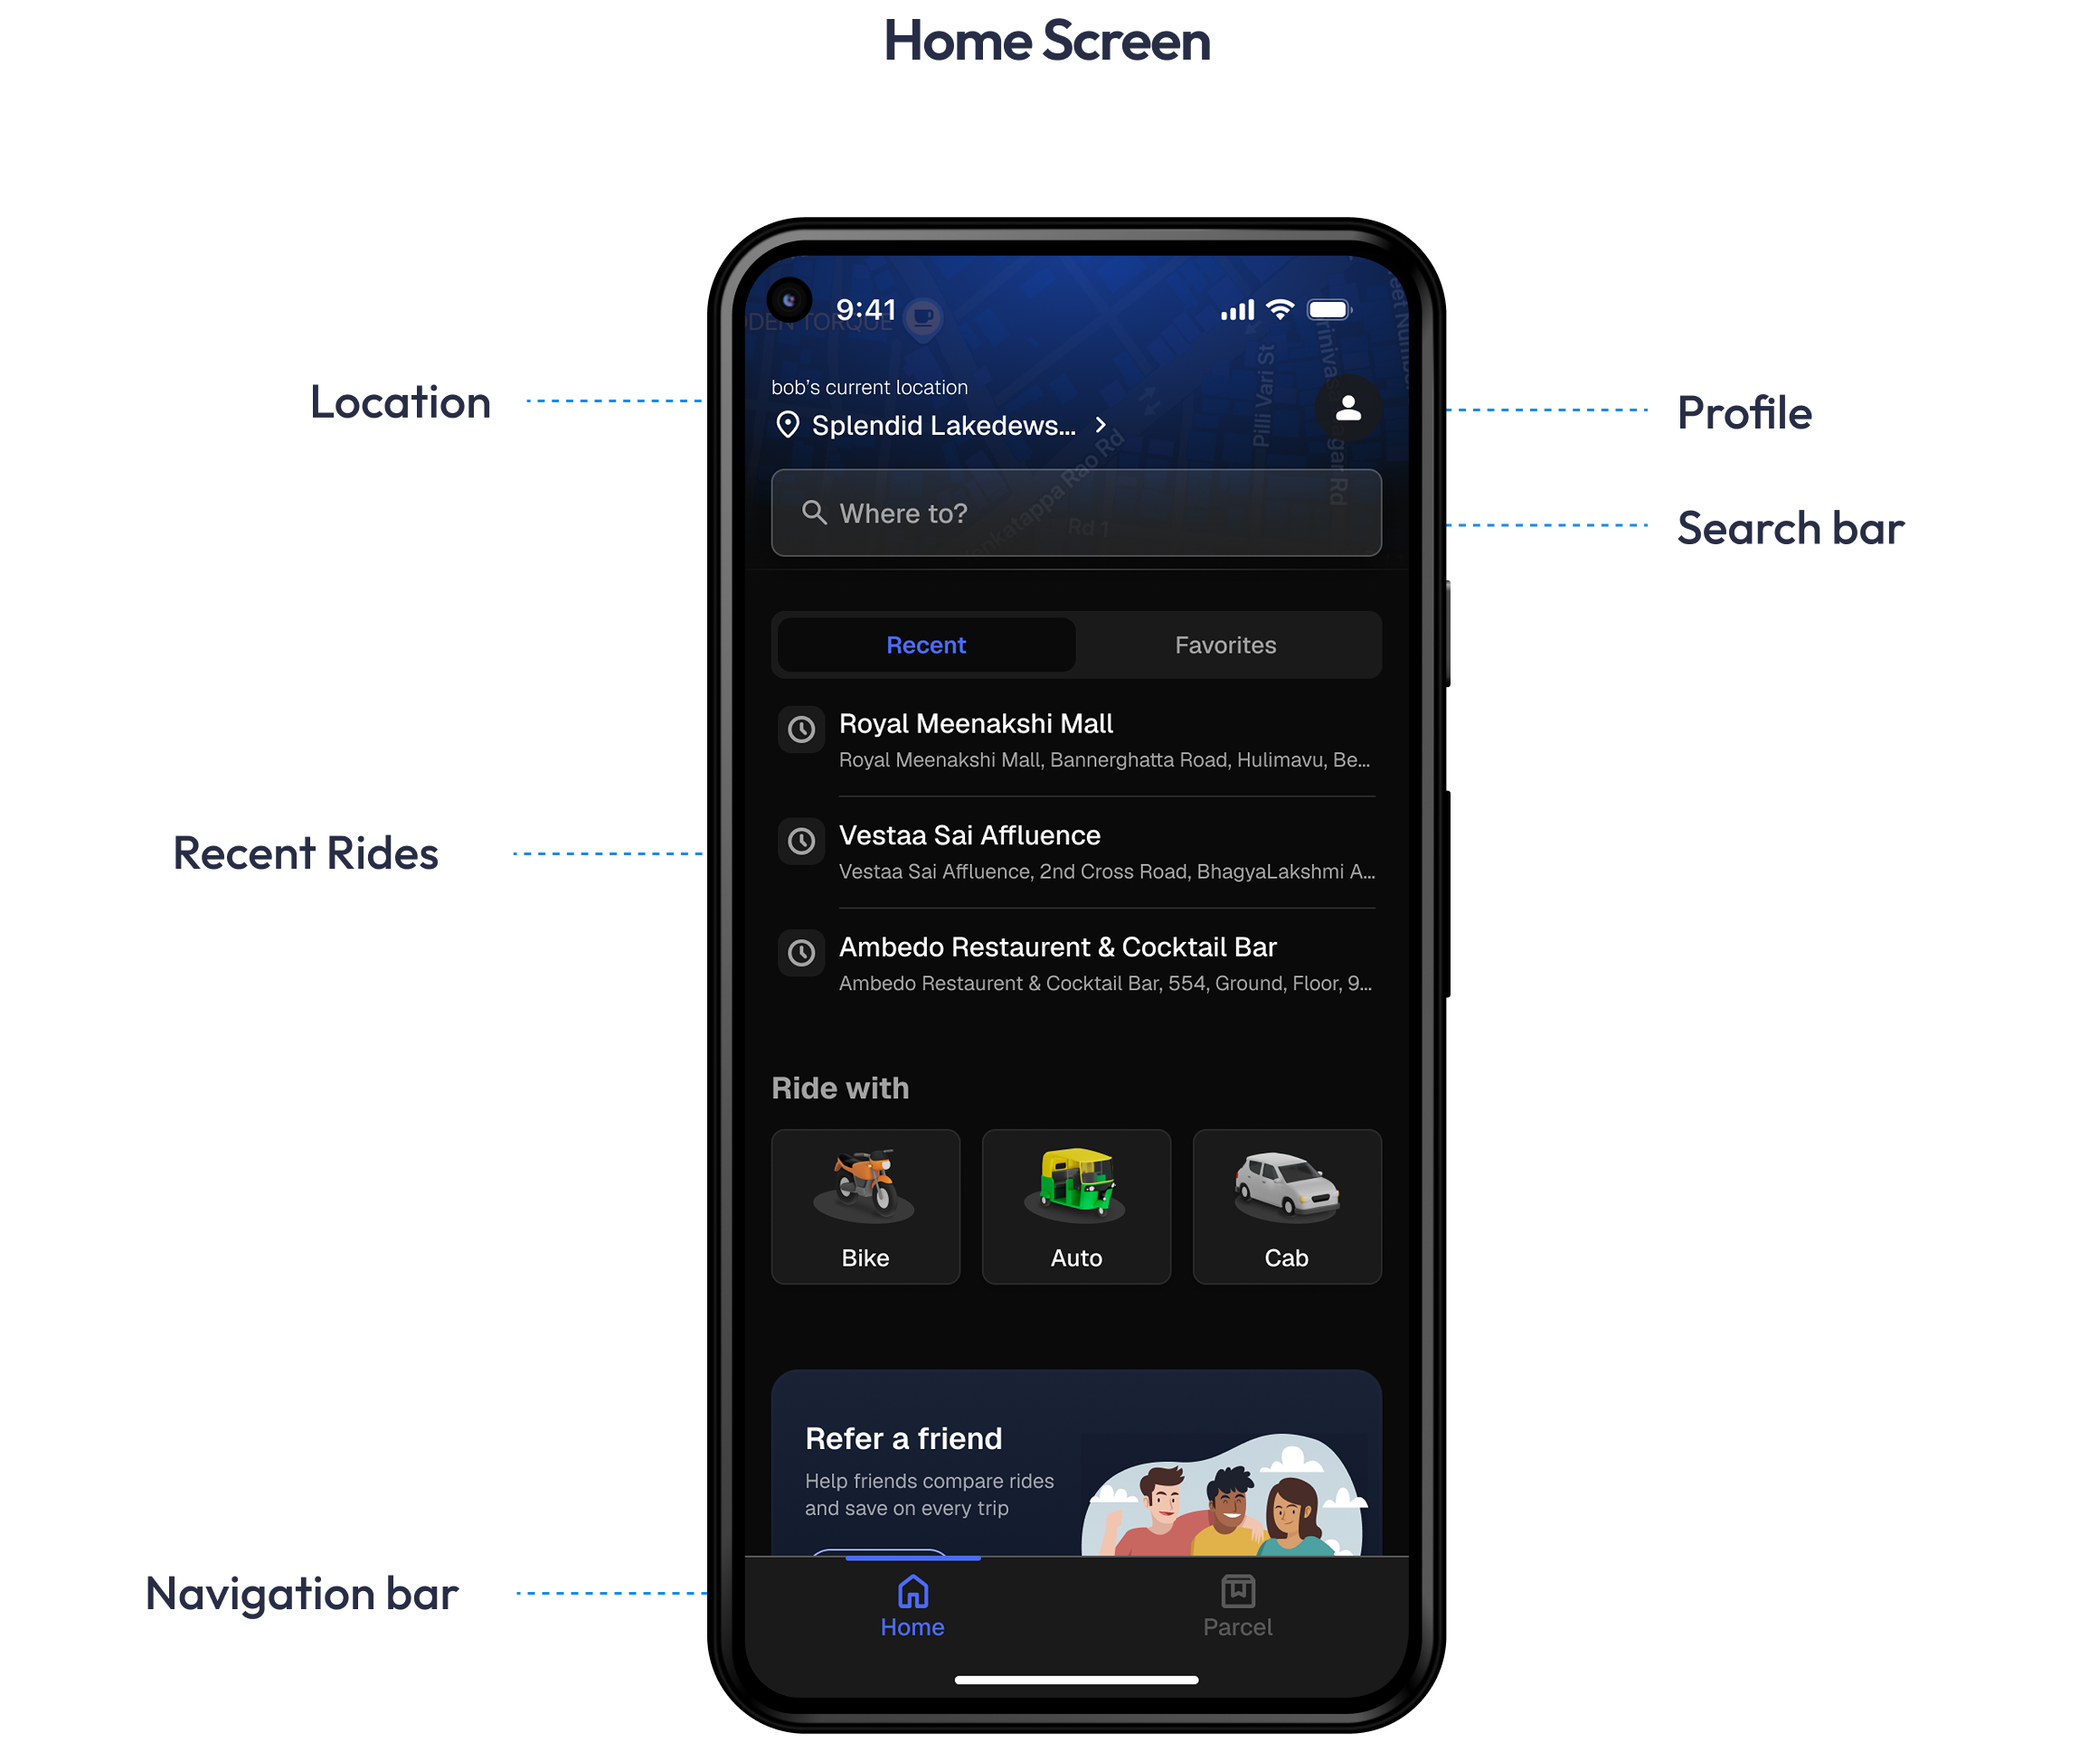
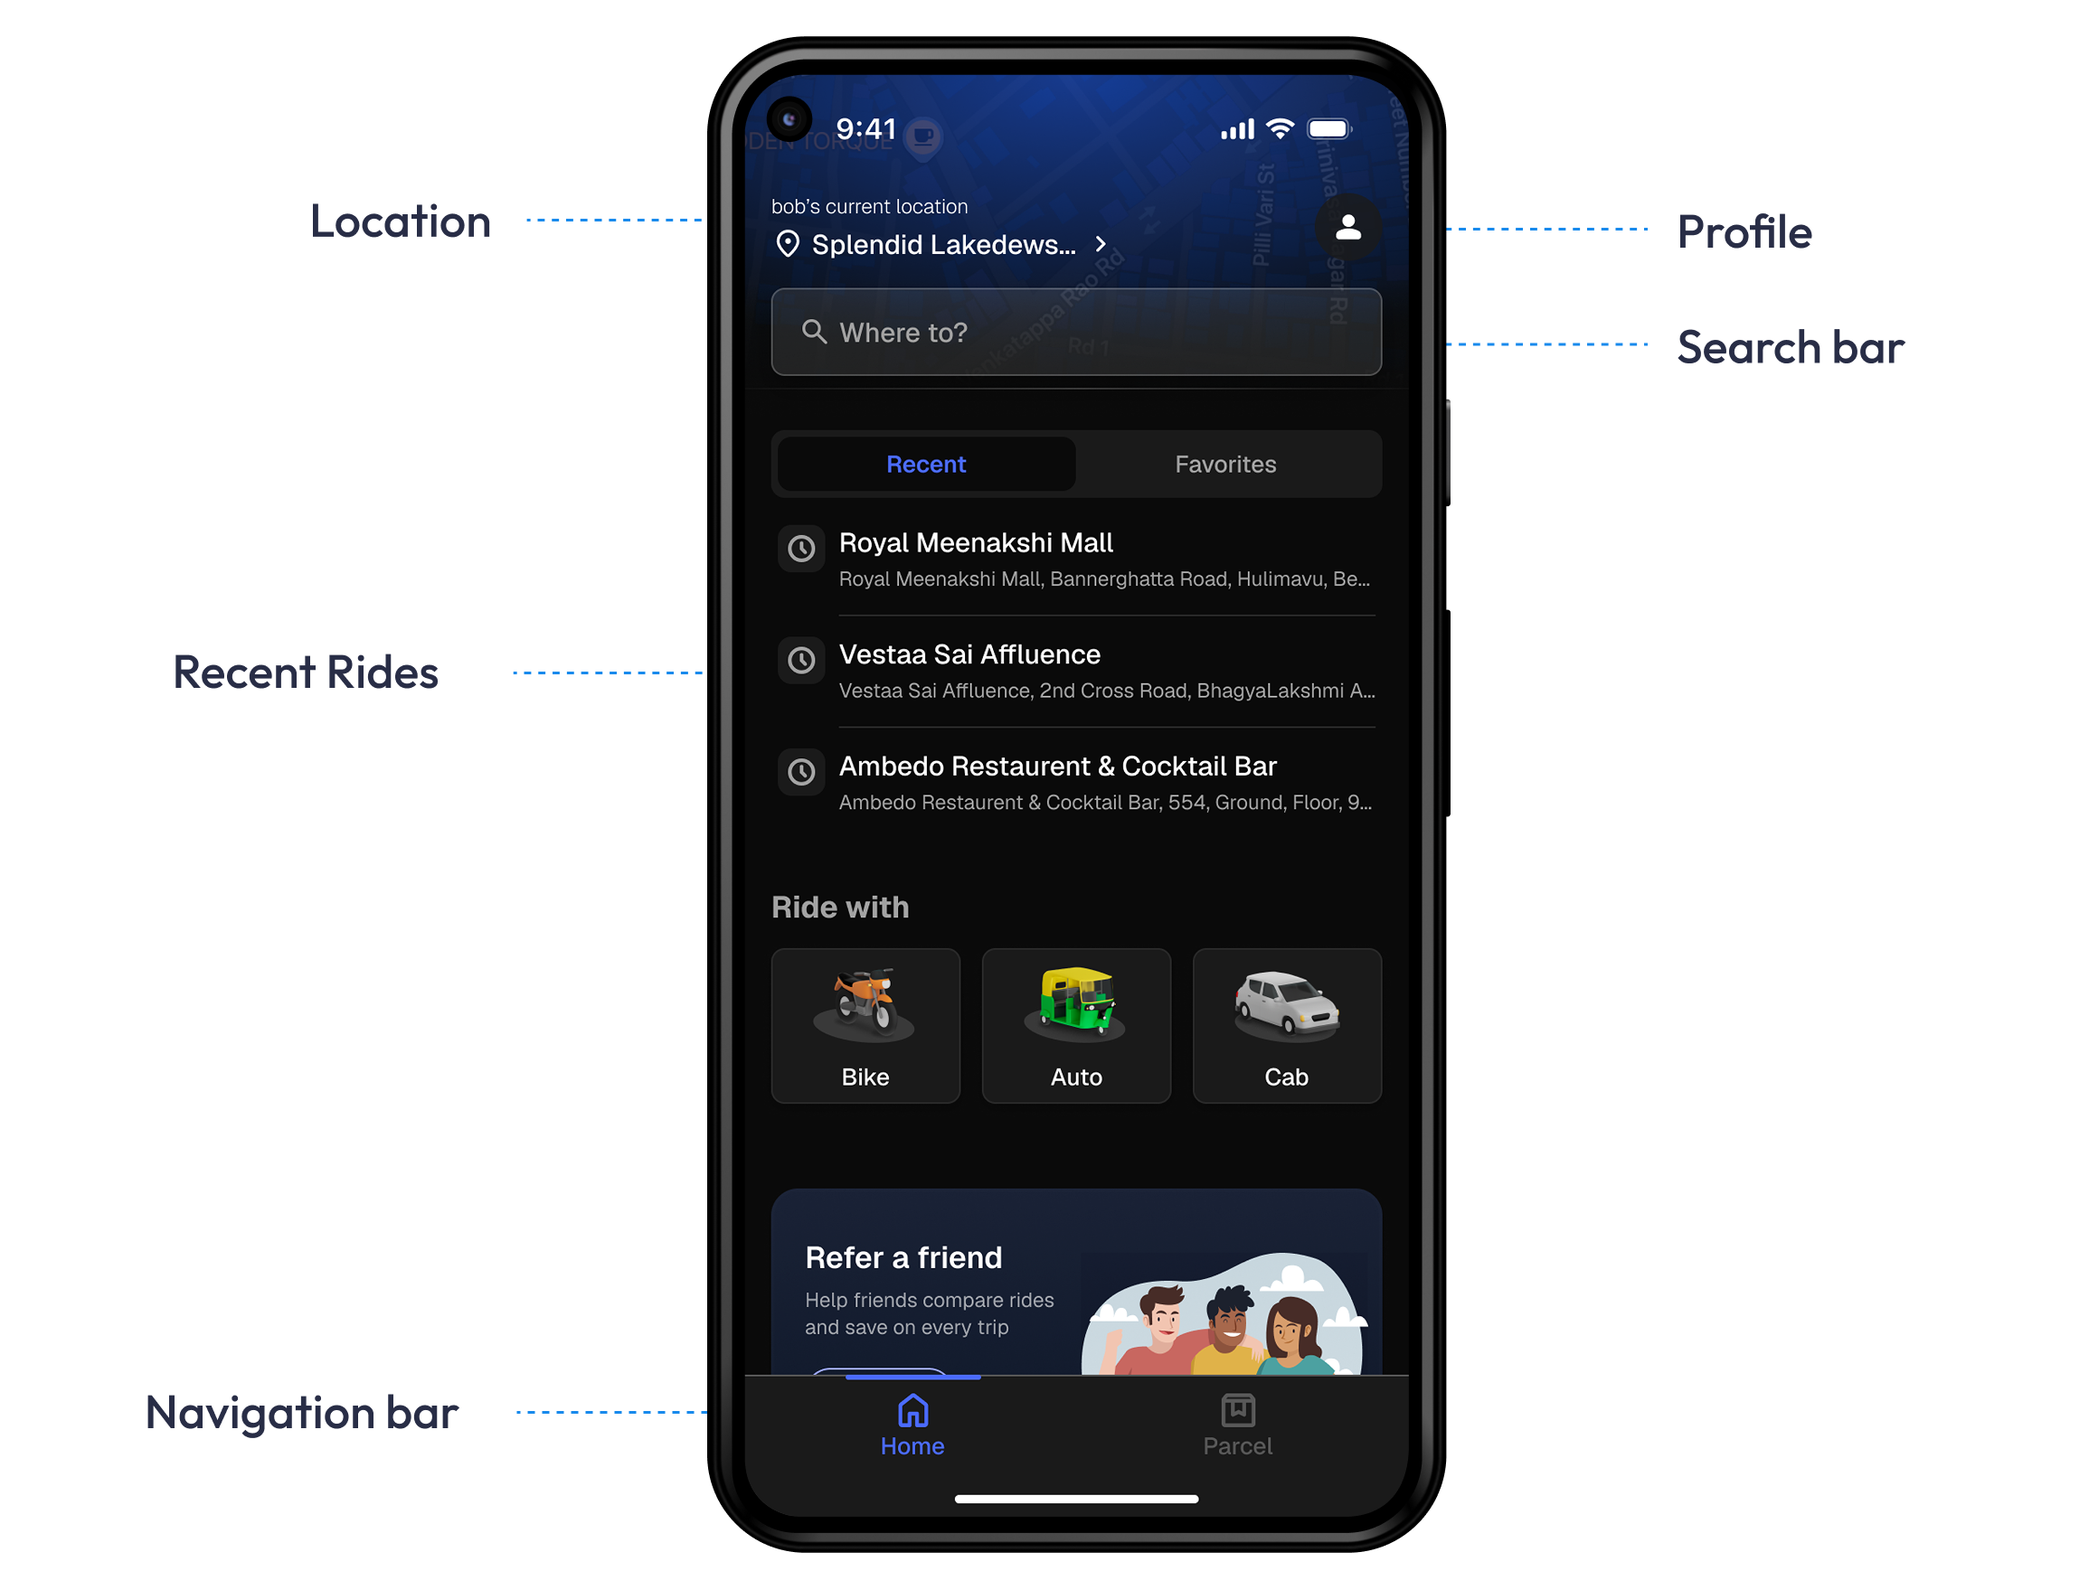
Fix Major Screens labels — second and third were mislabeled Home Screen
The source screenshots had "Home Screen" baked into all three images.
Cropped the baked-in label out of each image and added real HTML
captions instead: Home Screen, Ride Selection, Ride Details.

diff --git a/src/app/components/bob-case-study/BobRides.tsx b/src/app/components/bob-case-study/BobRides.tsx
@@ -422,16 +422,28 @@ export default function BobRides() {
             <Reveal as="h2">Major Screens</Reveal>
           </div>
           <div style={{ display: 'flex', justifyContent: 'center', flexWrap: 'wrap', gap: 'var(--space-6)', marginTop: 'var(--space-7)', maxWidth: 1800, marginInline: 'auto', paddingInline: 'var(--space-5)' }}>
-            {['home-screen-1', 'home-screen-2', 'home-screen-3'].map((name, i) => (
-              <Reveal
-                key={name}
-                variant="zoom"
-                delay={staggerDelay(i)}
-                className="media-frame"
-                style={{ flex: '1 1 480px', maxWidth: 560, borderColor: 'rgba(244,243,240,0.12)', background: 'var(--screen-bg)' }}
-              >
-                <img src={`/images/bob-images/major-screens-${name}.png`} alt={`Major Screens — ${i + 1}`} loading="lazy" />
-              </Reveal>
+            {[
+              { name: 'home-screen-1', label: 'Home Screen' },
+              { name: 'home-screen-2', label: 'Ride Selection' },
+              { name: 'home-screen-3', label: 'Ride Details' },
+            ].map(({ name, label }, i) => (
+              <div key={name} style={{ flex: '1 1 480px', maxWidth: 560 }}>
+                <Reveal
+                  as="p"
+                  delay={staggerDelay(i)}
+                  style={{ textAlign: 'center', fontWeight: 600, color: 'var(--cream)', marginBottom: 'var(--space-4)' }}
+                >
+                  {label}
+                </Reveal>
+                <Reveal
+                  variant="zoom"
+                  delay={staggerDelay(i)}
+                  className="media-frame"
+                  style={{ borderColor: 'rgba(244,243,240,0.12)', background: 'var(--screen-bg)' }}
+                >
+                  <img src={`/images/bob-images/major-screens-${name}.png`} alt={label} loading="lazy" />
+                </Reveal>
+              </div>
             ))}
           </div>
         </section>
